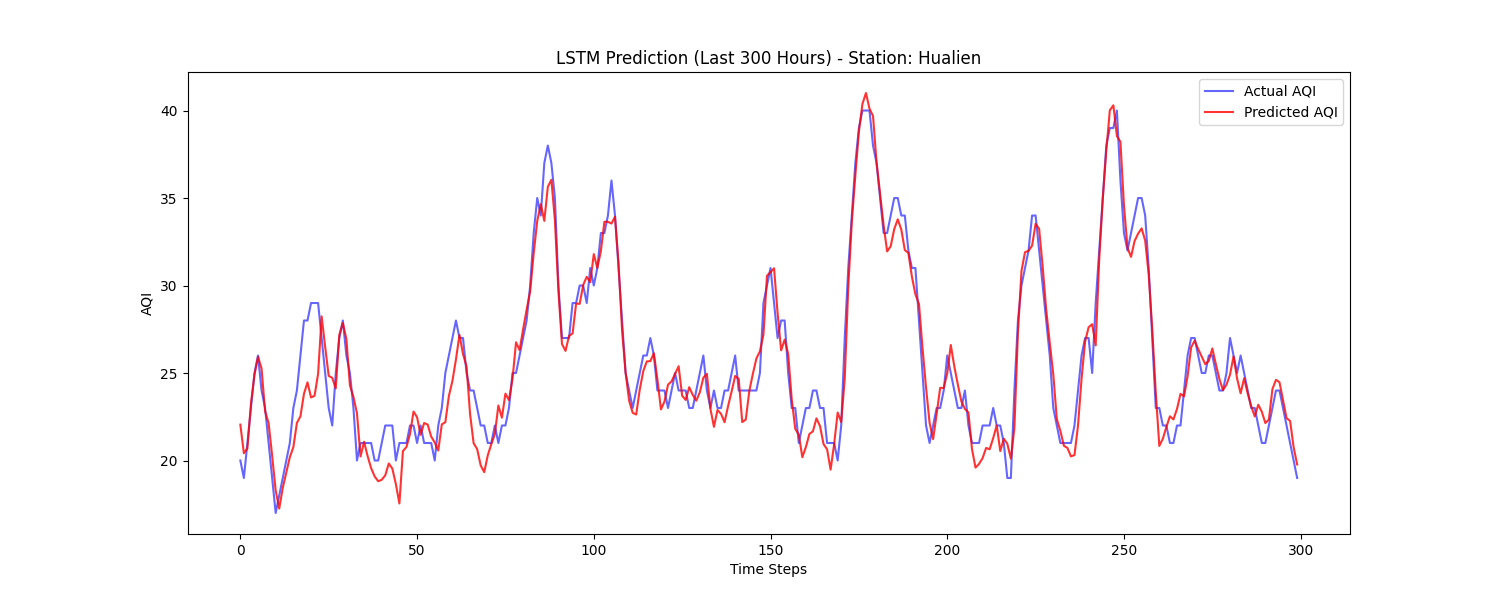
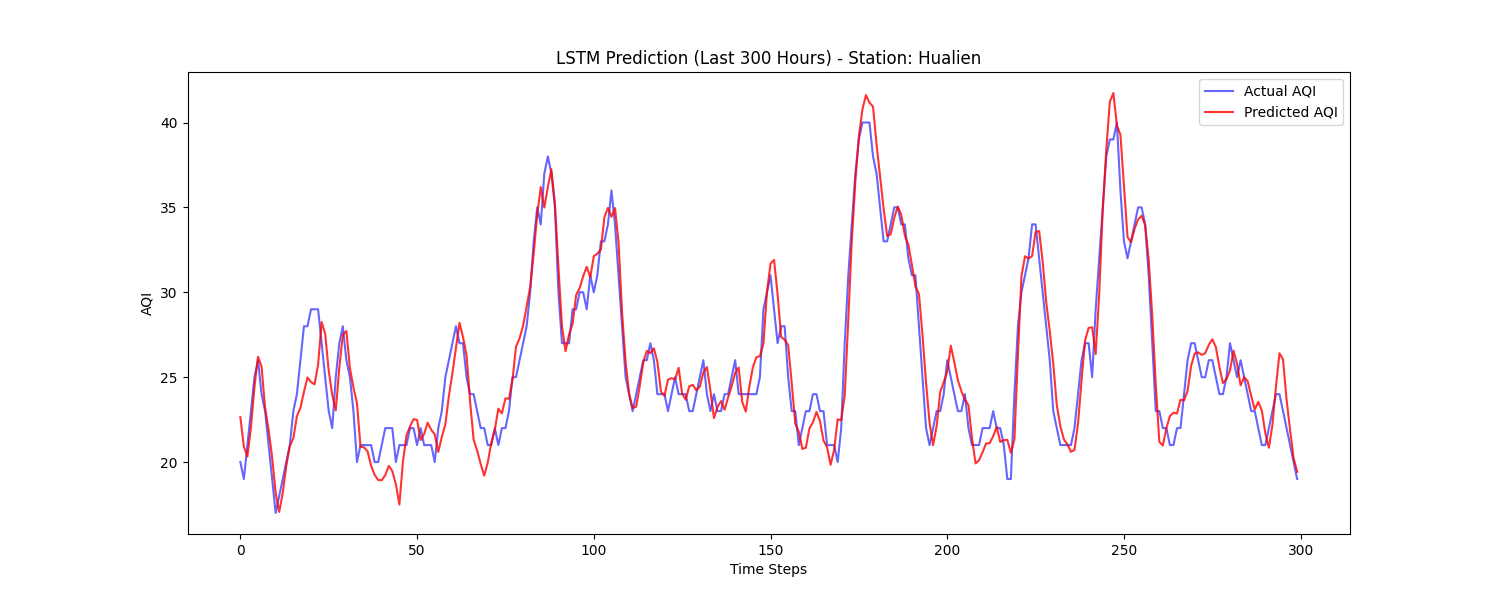
Update README

diff --git a/src/main_modeling.py b/src/main_modeling.py
@@ -35,7 +35,13 @@ from src.features.feature_engineering import (
 )
 from src.modeling.model_registry import MODEL_REGISTRY
 from src.modeling.train_baseline import build_features, split_train_test
-from src.utils.emoji_log import done, error
+from src.modeling.train_lstm import (
+    build_lstm_model,
+    evaluate_lstm_model,
+    prepare_lstm_data,
+    train_lstm_model,
+)
+from src.utils.emoji_log import done, error, task
 from src.utils.IO_file import convert_csv_to_parquet
 
 
@@ -96,6 +102,41 @@ def run_model_pipeline(filename: str, model_type: str = "linear", sample_frac=0.
 
     # Step 5: Add temporal feature
     df = add_time_features(df)
+
+    # === Branch for LSTM ===
+    if model_type == "lstm":
+        print(f"\n{'='*40}")
+        task("Running LSTM Pipeline (Time Series Mode)")
+        print(f"{'='*40}")
+
+        target_stations = ["Zhongshan", "Xitun", "Zuoying", "Hualien"]
+        metrics_all = {}
+
+        for station in target_stations:
+            print(f"\n🌍 Processing Station: {station}")
+            try:
+                # 1. Prepare
+                X_train, y_train, X_test, y_test, scaler = prepare_lstm_data(
+                    df, station
+                )
+
+                # 2. Build
+                input_shape = (X_train.shape[1], X_train.shape[2])
+                model = build_lstm_model(input_shape)
+
+                # 3. Train
+                train_lstm_model(model, X_train, y_train, station, epochs=20)
+
+                # 4. Evaluate
+                metrics = evaluate_lstm_model(model, X_test, y_test, scaler, station)
+                metrics_all[station] = metrics
+
+            except ValueError as e:
+                error(f"Skipping {station}: {e}")
+                continue
+
+        done("LSTM Pipeline completed for all stations.")
+        return None, metrics_all
 
     # === 3. Feature selection & scaling ===
     X, y = build_features(df)

diff --git a/README.md b/README.md
@@ -34,8 +34,8 @@ Data Cleaning • Feature Engineering • Modeling • SHAP • Evaluation • D
 - [Docker Support](#-docker-support-python-313)
 - [VSCode Dev Container](#-vscode-dev-container-recommended)
 - [Mounted Folders](#-mounted-folders)
-- [Environment Replication](#-environment-replication-reproducible-jupyter-environment)
 - [Project Layout](#-project-layout)
+- [Usage](#-usage)
 - [Notebook / Chapter Overview](#-notebook--chapter-overview)
 - [Web Application Deployment](#-web-application-deployment-time-machine)
 - [Field Summary](#-field-summary)
@@ -152,21 +152,27 @@ Now you can run any .py or notebook directly inside the container.
 │  ├─ 04_nonlinear_modeling.ipynb
 │  ├─ 05_model_optimization.ipynb
 │  ├─ 06_model_explainability_shap_analysis.ipynb
-│  └─ 07_model_prediction_evaluation.ipynb
+│  ├─ 07_model_prediction_evaluation.ipynb
+│  ├─ 08_advanced_boosting_lightgbm.ipynb
+│  ├─ 09_temporal_analysis.ipynb
+│  └─ 10_time_series_lstm.ipynb
 │
 ├─ output/
 │  ├─ figures/            # SHAP / EDA / 模型圖表
-|     ├─ linear/
-|     ├─ rf/
-|     ├─ rf_tuned/
+│  │  ├─ linear/
+│  │  ├─ rf/
+│  │  ├─ rf_tuned/
+│  │  ├─ lgbm/
+│  │  └─ lstm/
 │  └─ predictions/        # 模型預測輸出
 │
 ├─ result/                # CV 結果、tuning log、metrics
 │
 ├─ src/
+│  ├─ app/                # Streamlit Web App
 │  ├─ cleaning/           # 資料清理函式
 │  ├─ features/           # 特徵工程 (rolling, log, scaling)
-│  ├─ modeling/           # Baseline, RF, Tuning, SHAP
+│  ├─ modeling/           # Baseline, RF, Tuning, SHAP, LightGBM, LSTM
 │  ├─ utils/              # 工具 (emoji_log, IO, path)
 │  ├─ visualization/      # 圖表繪製
 │  ├─ config.py
@@ -179,6 +185,49 @@ Now you can run any .py or notebook directly inside the container.
 ├─ Dockerfile
 ├─ .dockerignore
 └─ README.md
+```
+
+---
+
+## 🔧 Usage
+
+### **1. Data Cleaning**
+
+Process raw CSV data into cleaned Parquet format.
+
+```bash
+python src/main_cleaning.py
+```
+
+### **2. Visualization**
+
+Generate exploratory data analysis (EDA) plots.
+
+```bash
+python src/main_visualization.py
+```
+
+### **3. Run Modeling Pipeline**
+
+Train and evaluate models using the automated pipeline.
+
+**Option A: Random Forest (Default)**
+
+```bash
+python -c "from src.main_modeling import run_model_pipeline; run_model_pipeline('Taiwan', model_type='rf_tuned')"
+```
+
+**Option B: LightGBM (Fast & Accurate)**
+
+```bash
+python -c "from src.main_modeling import run_model_pipeline; run_model_pipeline('Taiwan', model_type='lgbm')"
+```
+
+**Option C: LSTM (Deep Learning for Time Series) 🆕**
+
+```bash
+# Trains LSTM models for 4 representative stations (North, Central, South, East)
+python -c "from src.main_modeling import run_model_pipeline; run_model_pipeline('Taiwan', model_type='lstm')"
 ```
 
 ---
